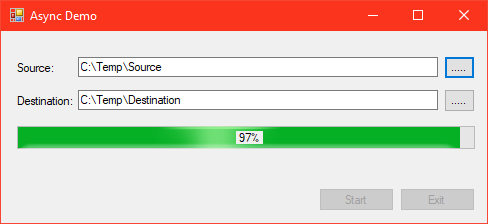
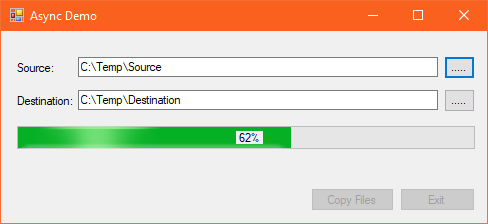
Change Button Text

diff --git a/AsyncDemo/Form1.Designer.cs b/AsyncDemo/Form1.Designer.cs
@@ -32,7 +32,7 @@
             this.txtDestination = new System.Windows.Forms.TextBox();
             this.label1 = new System.Windows.Forms.Label();
             this.label2 = new System.Windows.Forms.Label();
-            this.btnStart = new System.Windows.Forms.Button();
+            this.btnCopyFiles = new System.Windows.Forms.Button();
             this.btnExit = new System.Windows.Forms.Button();
             this.ProgressBar1 = new System.Windows.Forms.ProgressBar();
             this.lblProgress = new System.Windows.Forms.Label();
@@ -72,20 +72,20 @@
             this.label2.TabIndex = 3;
             this.label2.Text = "Destination:";
             // 
-            // BtnStart
+            // btnCopyFiles
             // 
-            this.btnStart.Location = new System.Drawing.Point(318, 157);
-            this.btnStart.Name = "BtnStart";
-            this.btnStart.Size = new System.Drawing.Size(75, 23);
-            this.btnStart.TabIndex = 4;
-            this.btnStart.Text = "Start";
-            this.btnStart.UseVisualStyleBackColor = true;
-            this.btnStart.Click += new System.EventHandler(this.BtnStart_Click);
+            this.btnCopyFiles.Location = new System.Drawing.Point(310, 157);
+            this.btnCopyFiles.Name = "btnCopyFiles";
+            this.btnCopyFiles.Size = new System.Drawing.Size(83, 23);
+            this.btnCopyFiles.TabIndex = 4;
+            this.btnCopyFiles.Text = "Copy Files";
+            this.btnCopyFiles.UseVisualStyleBackColor = true;
+            this.btnCopyFiles.Click += new System.EventHandler(this.btnCopyFiles_Click);
             // 
-            // BtnExit
+            // btnExit
             // 
             this.btnExit.Location = new System.Drawing.Point(399, 157);
-            this.btnExit.Name = "BtnExit";
+            this.btnExit.Name = "btnExit";
             this.btnExit.Size = new System.Drawing.Size(75, 23);
             this.btnExit.TabIndex = 5;
             this.btnExit.Text = "Exit";
@@ -140,7 +140,7 @@
             this.Controls.Add(this.lblProgress);
             this.Controls.Add(this.ProgressBar1);
             this.Controls.Add(this.btnExit);
-            this.Controls.Add(this.btnStart);
+            this.Controls.Add(this.btnCopyFiles);
             this.Controls.Add(this.label2);
             this.Controls.Add(this.label1);
             this.Controls.Add(this.txtDestination);
@@ -158,7 +158,7 @@
         private System.Windows.Forms.TextBox txtDestination;
         private System.Windows.Forms.Label label1;
         private System.Windows.Forms.Label label2;
-        private System.Windows.Forms.Button btnStart;
+        private System.Windows.Forms.Button btnCopyFiles;
         private System.Windows.Forms.Button btnExit;
         private System.Windows.Forms.ProgressBar ProgressBar1;
         private System.Windows.Forms.Label lblProgress;

diff --git a/AsyncDemo/Form1.cs b/AsyncDemo/Form1.cs
@@ -16,7 +16,7 @@ namespace AsyncDemo
             Close();
         }
 
-        private async void BtnStart_Click(object sender, EventArgs e)
+        private async void btnCopyFiles_Click(object sender, EventArgs e)
         {
             if (!Directory.Exists(txtSource.Text))
             {
@@ -24,7 +24,7 @@ namespace AsyncDemo
                 return;
             }
 
-            btnStart.Enabled = false;
+            btnCopyFiles.Enabled = false;
             btnExit.Enabled = false;
 
             if (!Directory.Exists(txtDestination.Text))
@@ -50,7 +50,7 @@ namespace AsyncDemo
             }
             finally
             {
-                btnStart.Enabled = true;
+                btnCopyFiles.Enabled = true;
                 btnExit.Enabled = true;
             }
         }
